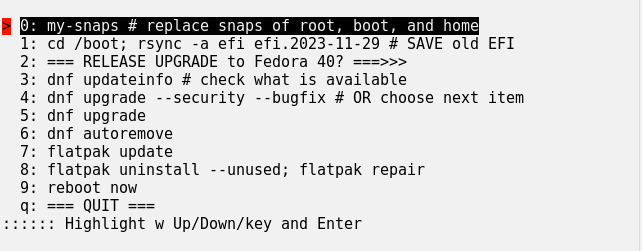
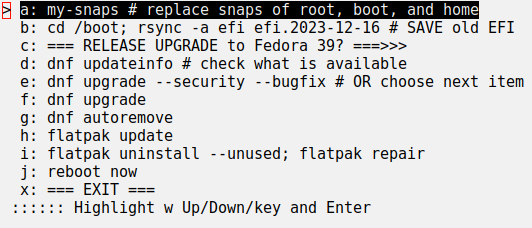
x=Exit, labels have new feature

Changed region(s): [[0.0, 0.0, 0.9925, 0.9518]]

diff --git a/README.md b/README.md
@@ -32,11 +32,10 @@ Three tools are provided Fedora maintenance assuming you've installed on the def
 * to highlight a line, press its key (on the left) or use the up/down arrow keys
 * after an execution, you will be placed on the next item, but you can easily choose to repeat or skip steps
 </br>
-* executing `0` runs `my-snaps` described below.
-* executing `2` takes you to another menu (shown below)
-* normally, you execute either `4` or `5`
-* if no flatpaks, skip `7` and `8`
-* step `8` need not be done every update, as you wish.
+* executing `a` runs `my-snaps` described below.
+* executing `c` takes you to another menu (shown below)
+* normally, you execute either `e` or `f`
+* if no flatpaks, skip `h` and `j`
 
 Choosing `RELEASE UPGRADE` offers this sub-menu:
 
@@ -56,11 +55,14 @@ Choosing `RELEASE UPGRADE` offers this sub-menu:
 
 * In the header, the BTRFS partitions are shown with `df -h` info (showing Size, Used, Avail, Use%, and Mounted on); run df separate to remind you of the fields when needed.
 * All snapshots are expected to be in `/.snapshots/`
-* Snapshots are to be named `{subvol}.YYYY-MM-DD-HHmmss` where `YYYY` are time fields separated by dashes or colons only.
-* On your very first run, highlight each subvolume for which you wish snapshots, and press `s` to create as many as you wish to keep normally.
-* On subsequent runs, `r` replaces your eldest snapshot for each top-level subvolume that has any snapshots.
+* Snapshots are to be named `{subvol}.YYYY-MM-DD-HHmmss` where `YYYY` are time fields separated by dashes or colons only PLUS and optional "label" that begins with `=`.
+* On your very first run, highlight each subvolume for which you wish snapshots, and press `s` to create one.
+* On subsequent runs, `r` replaces your eldest snapshot of the same label for each top-level subvolume that has any snapshots.
   * to describe snapshots, add a short label when prompted (e.g., "=preF40upg").
-  * **note**: you cannot use the characters "." or "/" in the snapshot names/labels
+  * **note**: you cannot use the characters "." or "/" in the snapshot names and labels
+* On subsequent runs, `a` adds one snapshot for each top-level subvolume that has any snapshots.
+
+> **Labels** create sets of snapshots that independently managed. You can create unique labels that are only removed manually.
 
 * Some other keys are:
   * `d`: to remove highlighted subvolume (usually pick a snapshot); you cannot remove mounted subvolumes; if there are nested subvolumes, those are removed too.
